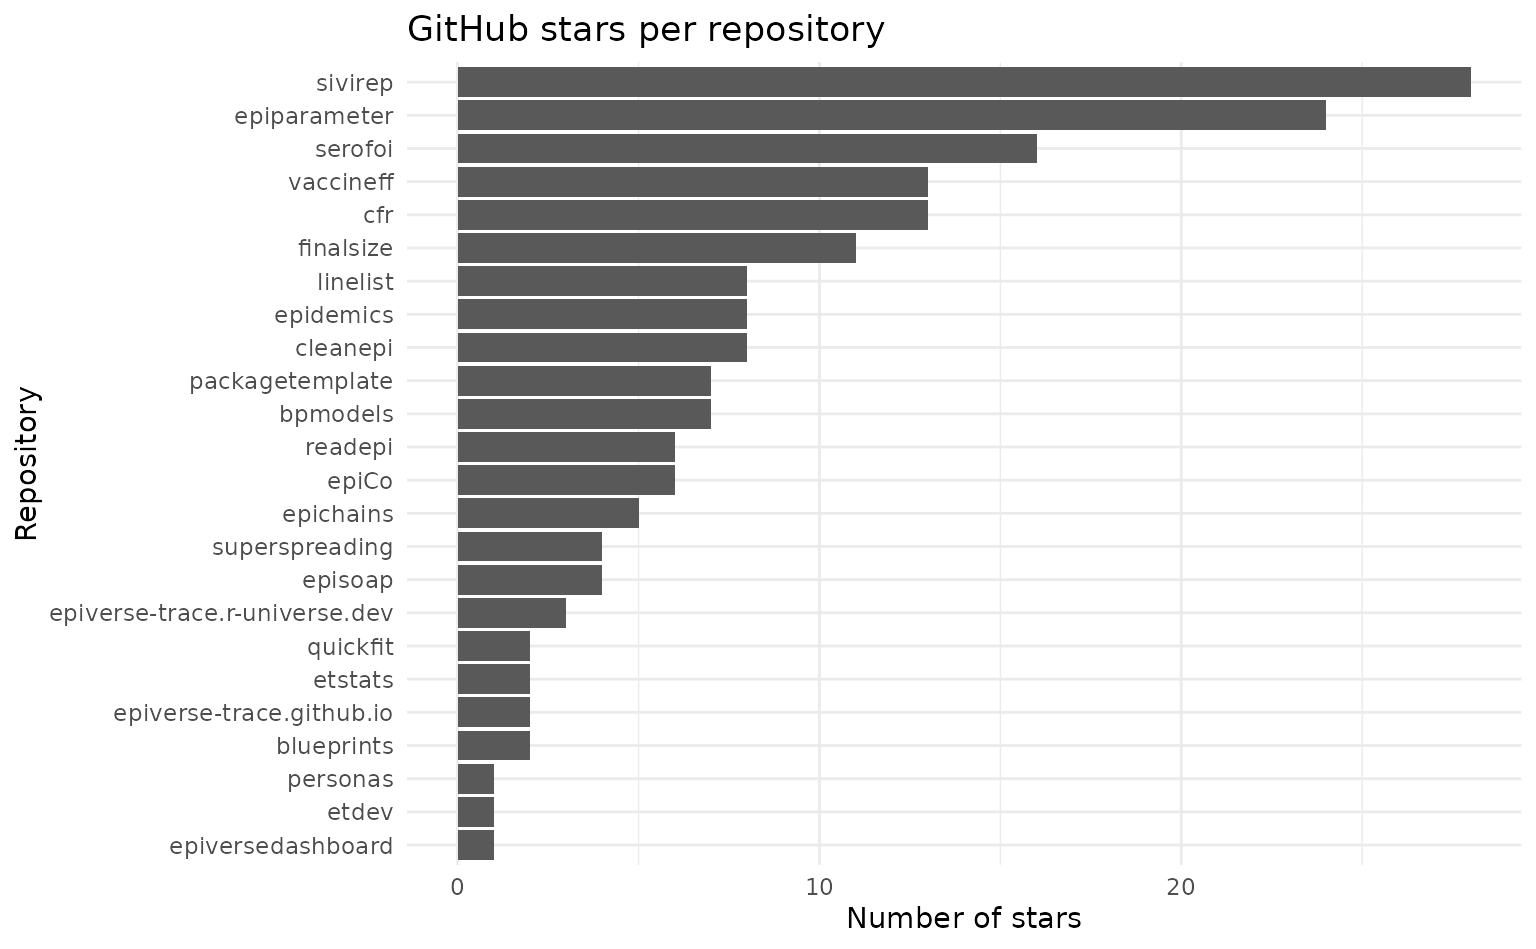
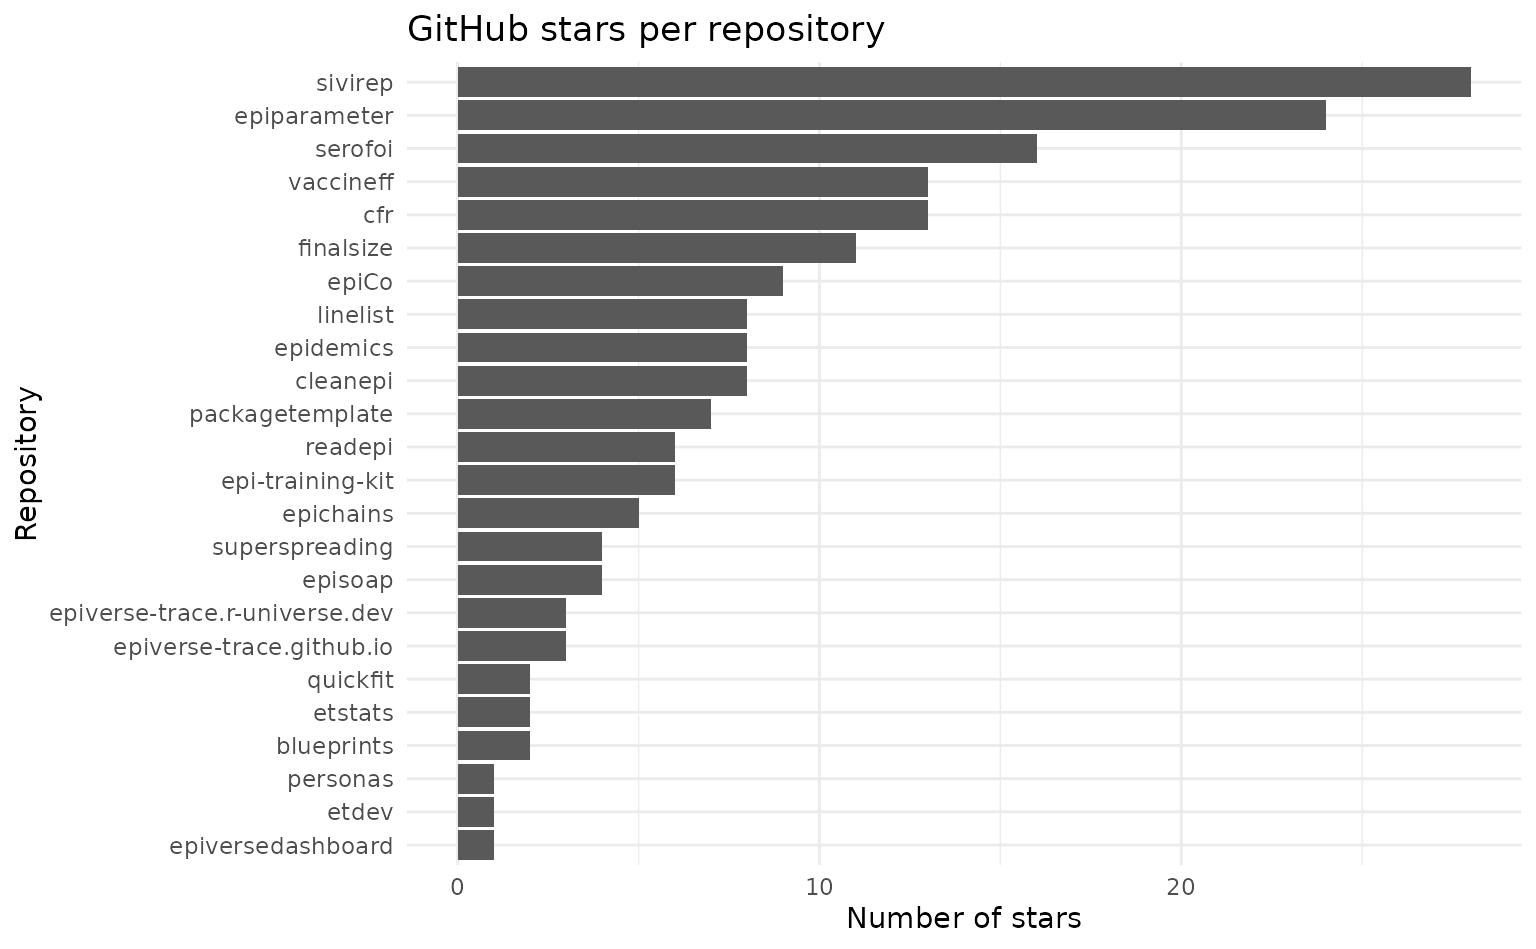
Deploying to gh-pages from @ epiverse-trace/etstats@b5838df9075cf9ab6070e3dbf6580fbdb30692bb 🚀

diff --git a/articles/github-statistics.html b/articles/github-statistics.html
@@ -78,7 +78,7 @@
   <main id="main" class="col-md-9"><div class="page-header">
       <img src="" class="logo" alt=""><h1>GitHub statistics</h1>
             
-            <h4 data-toc-skip class="date">2024-06-19</h4>
+            <h4 data-toc-skip class="date">2024-06-24</h4>
       
       <small class="dont-index">Source: <a href="https://github.com/epiverse-trace/etstats/blob/HEAD/vignettes/github-statistics.Rmd" class="external-link"><code>vignettes/github-statistics.Rmd</code></a></small>
       <div class="d-none name"><code>github-statistics.Rmd</code></div>
@@ -98,8 +98,8 @@ followers.</p>
 <div class="section level3">
 <h3 id="totals">Totals<a class="anchor" aria-label="anchor" href="#totals"></a>
 </h3>
-<p>In total, we have 182 stars across all Epiverse-TRACE packages. These
-stars come from 108 unique users.</p>
+<p>In total, we have 185 stars across all Epiverse-TRACE packages. These
+stars come from 109 unique users.</p>
 <p><img src="github-statistics_files/figure-html/unnamed-chunk-5-1.png" width="768"></p>
 </div>
 <div class="section level3">
@@ -115,70 +115,70 @@ stars come from 108 unique users.</p>
 </tr></thead>
 <tbody>
 <tr class="odd">
-<td align="left">bpmodels</td>
-<td align="right">1</td>
-<td align="right">3</td>
-<td align="right">1</td>
-</tr>
-<tr class="even">
 <td align="left">cfr</td>
 <td align="right">2</td>
 <td align="right">9</td>
 <td align="right">2</td>
 </tr>
-<tr class="odd">
+<tr class="even">
 <td align="left">epiparameter</td>
 <td align="right">8</td>
 <td align="right">9</td>
 <td align="right">7</td>
 </tr>
-<tr class="even">
+<tr class="odd">
 <td align="left">epiverse-trace.r-universe.dev</td>
 <td align="right">2</td>
 <td align="right">0</td>
 <td align="right">1</td>
 </tr>
-<tr class="odd">
+<tr class="even">
 <td align="left">epiversedashboard</td>
 <td align="right">1</td>
 <td align="right">0</td>
 <td align="right">0</td>
 </tr>
-<tr class="even">
+<tr class="odd">
 <td align="left">finalsize</td>
 <td align="right">4</td>
 <td align="right">5</td>
 <td align="right">2</td>
 </tr>
-<tr class="odd">
+<tr class="even">
 <td align="left">linelist</td>
 <td align="right">3</td>
 <td align="right">1</td>
 <td align="right">4</td>
 </tr>
-<tr class="even">
+<tr class="odd">
 <td align="left">readepi</td>
 <td align="right">3</td>
 <td align="right">2</td>
 <td align="right">1</td>
 </tr>
-<tr class="odd">
+<tr class="even">
 <td align="left">superspreading</td>
 <td align="right">1</td>
 <td align="right">3</td>
 <td align="right">0</td>
 </tr>
-<tr class="even">
+<tr class="odd">
 <td align="left">cleanepi</td>
 <td align="right">0</td>
 <td align="right">2</td>
 <td align="right">6</td>
 </tr>
+<tr class="even">
+<td align="left">epi-training-kit</td>
+<td align="right">0</td>
+<td align="right">5</td>
+<td align="right">1</td>
+</tr>
 <tr class="odd">
 <td align="left">epiCo</td>
 <td align="right">0</td>
 <td align="right">3</td>
-<td align="right">3</td>
+<td align="right">6</td>
 </tr>
 <tr class="even">
 <td align="left">epichains</td>
@@ -202,7 +202,7 @@ stars come from 108 unique users.</p>
 <td align="left">epiverse-trace.github.io</td>
 <td align="right">0</td>
 <td align="right">1</td>
-<td align="right">1</td>
+<td align="right">2</td>
 </tr>
 <tr class="even">
 <td align="left">etdev</td>
@@ -260,9 +260,9 @@ stars come from 108 unique users.</p>
 </tr>
 <tr class="odd">
 <td align="left">Total</td>
-<td align="right">25</td>
-<td align="right">87</td>
-<td align="right">68</td>
+<td align="right">24</td>
+<td align="right">89</td>
+<td align="right">72</td>
 </tr>
 </tbody>
 </table>

diff --git a/articles/cran-statistics.html b/articles/cran-statistics.html
@@ -78,7 +78,7 @@
   <main id="main" class="col-md-9"><div class="page-header">
       <img src="" class="logo" alt=""><h1>CRAN statistics</h1>
             
-            <h4 data-toc-skip class="date">2024-06-19</h4>
+            <h4 data-toc-skip class="date">2024-06-24</h4>
       
       <small class="dont-index">Source: <a href="https://github.com/epiverse-trace/etstats/blob/HEAD/vignettes/cran-statistics.Rmd" class="external-link"><code>vignettes/cran-statistics.Rmd</code></a></small>
       <div class="d-none name"><code>cran-statistics.Rmd</code></div>
@@ -86,17 +86,18 @@
 
     
     
-<p>We currently have 3 Epiverse-TRACE packages on CRAN:</p>
+<p>We currently have 4 Epiverse-TRACE packages on CRAN:</p>
 <ul>
+<li><a href="https://cran.r-project.org/package=cleanepi" class="external-link">cleanepi</a></li>
 <li><a href="https://cran.r-project.org/package=linelist" class="external-link">linelist</a></li>
 <li><a href="https://cran.r-project.org/package=cfr" class="external-link">cfr</a></li>
 <li><a href="https://cran.r-project.org/package=finalsize" class="external-link">finalsize</a></li>
 </ul>
-<p>In total, Epiverse-TRACE packages on CRAN have been downloaded 19873
+<p>In total, Epiverse-TRACE packages on CRAN have been downloaded 20449
 times.</p>
 <p>Below is a visualization of the breakdown of this grand total by
 package over time.</p>
-<p><img src="cran-statistics_files/figure-html/unnamed-chunk-6-1.png" alt="Cumulative downloads of Epiverse-TRACE on CRAN (linelist, cfr, finalsize)" width="768"></p>
+<p><img src="cran-statistics_files/figure-html/unnamed-chunk-6-1.png" alt="Cumulative downloads of Epiverse-TRACE on CRAN (cleanepi, linelist, cfr, finalsize)" width="768"></p>
 <table class="table">
 <thead><tr class="header">
 <th align="left">package</th>
@@ -109,25 +110,31 @@ package over time.</p>
 <td align="left">finalsize</td>
 <td align="right">260</td>
 <td align="right">2881</td>
-<td align="right">1724</td>
+<td align="right">1777</td>
 </tr>
 <tr class="even">
 <td align="left">linelist</td>
 <td align="right">3712</td>
 <td align="right">4898</td>
-<td align="right">4411</td>
+<td align="right">4653</td>
 </tr>
 <tr class="odd">
 <td align="left">cfr</td>
 <td align="right">NA</td>
 <td align="right">364</td>
-<td align="right">1623</td>
+<td align="right">1772</td>
 </tr>
 <tr class="even">
+<td align="left">cleanepi</td>
+<td align="right">NA</td>
+<td align="right">NA</td>
+<td align="right">132</td>
+</tr>
+<tr class="odd">
 <td align="left">Total</td>
 <td align="right">3972</td>
 <td align="right">8143</td>
-<td align="right">7758</td>
+<td align="right">8334</td>
 </tr>
 </tbody>
 </table></main>
